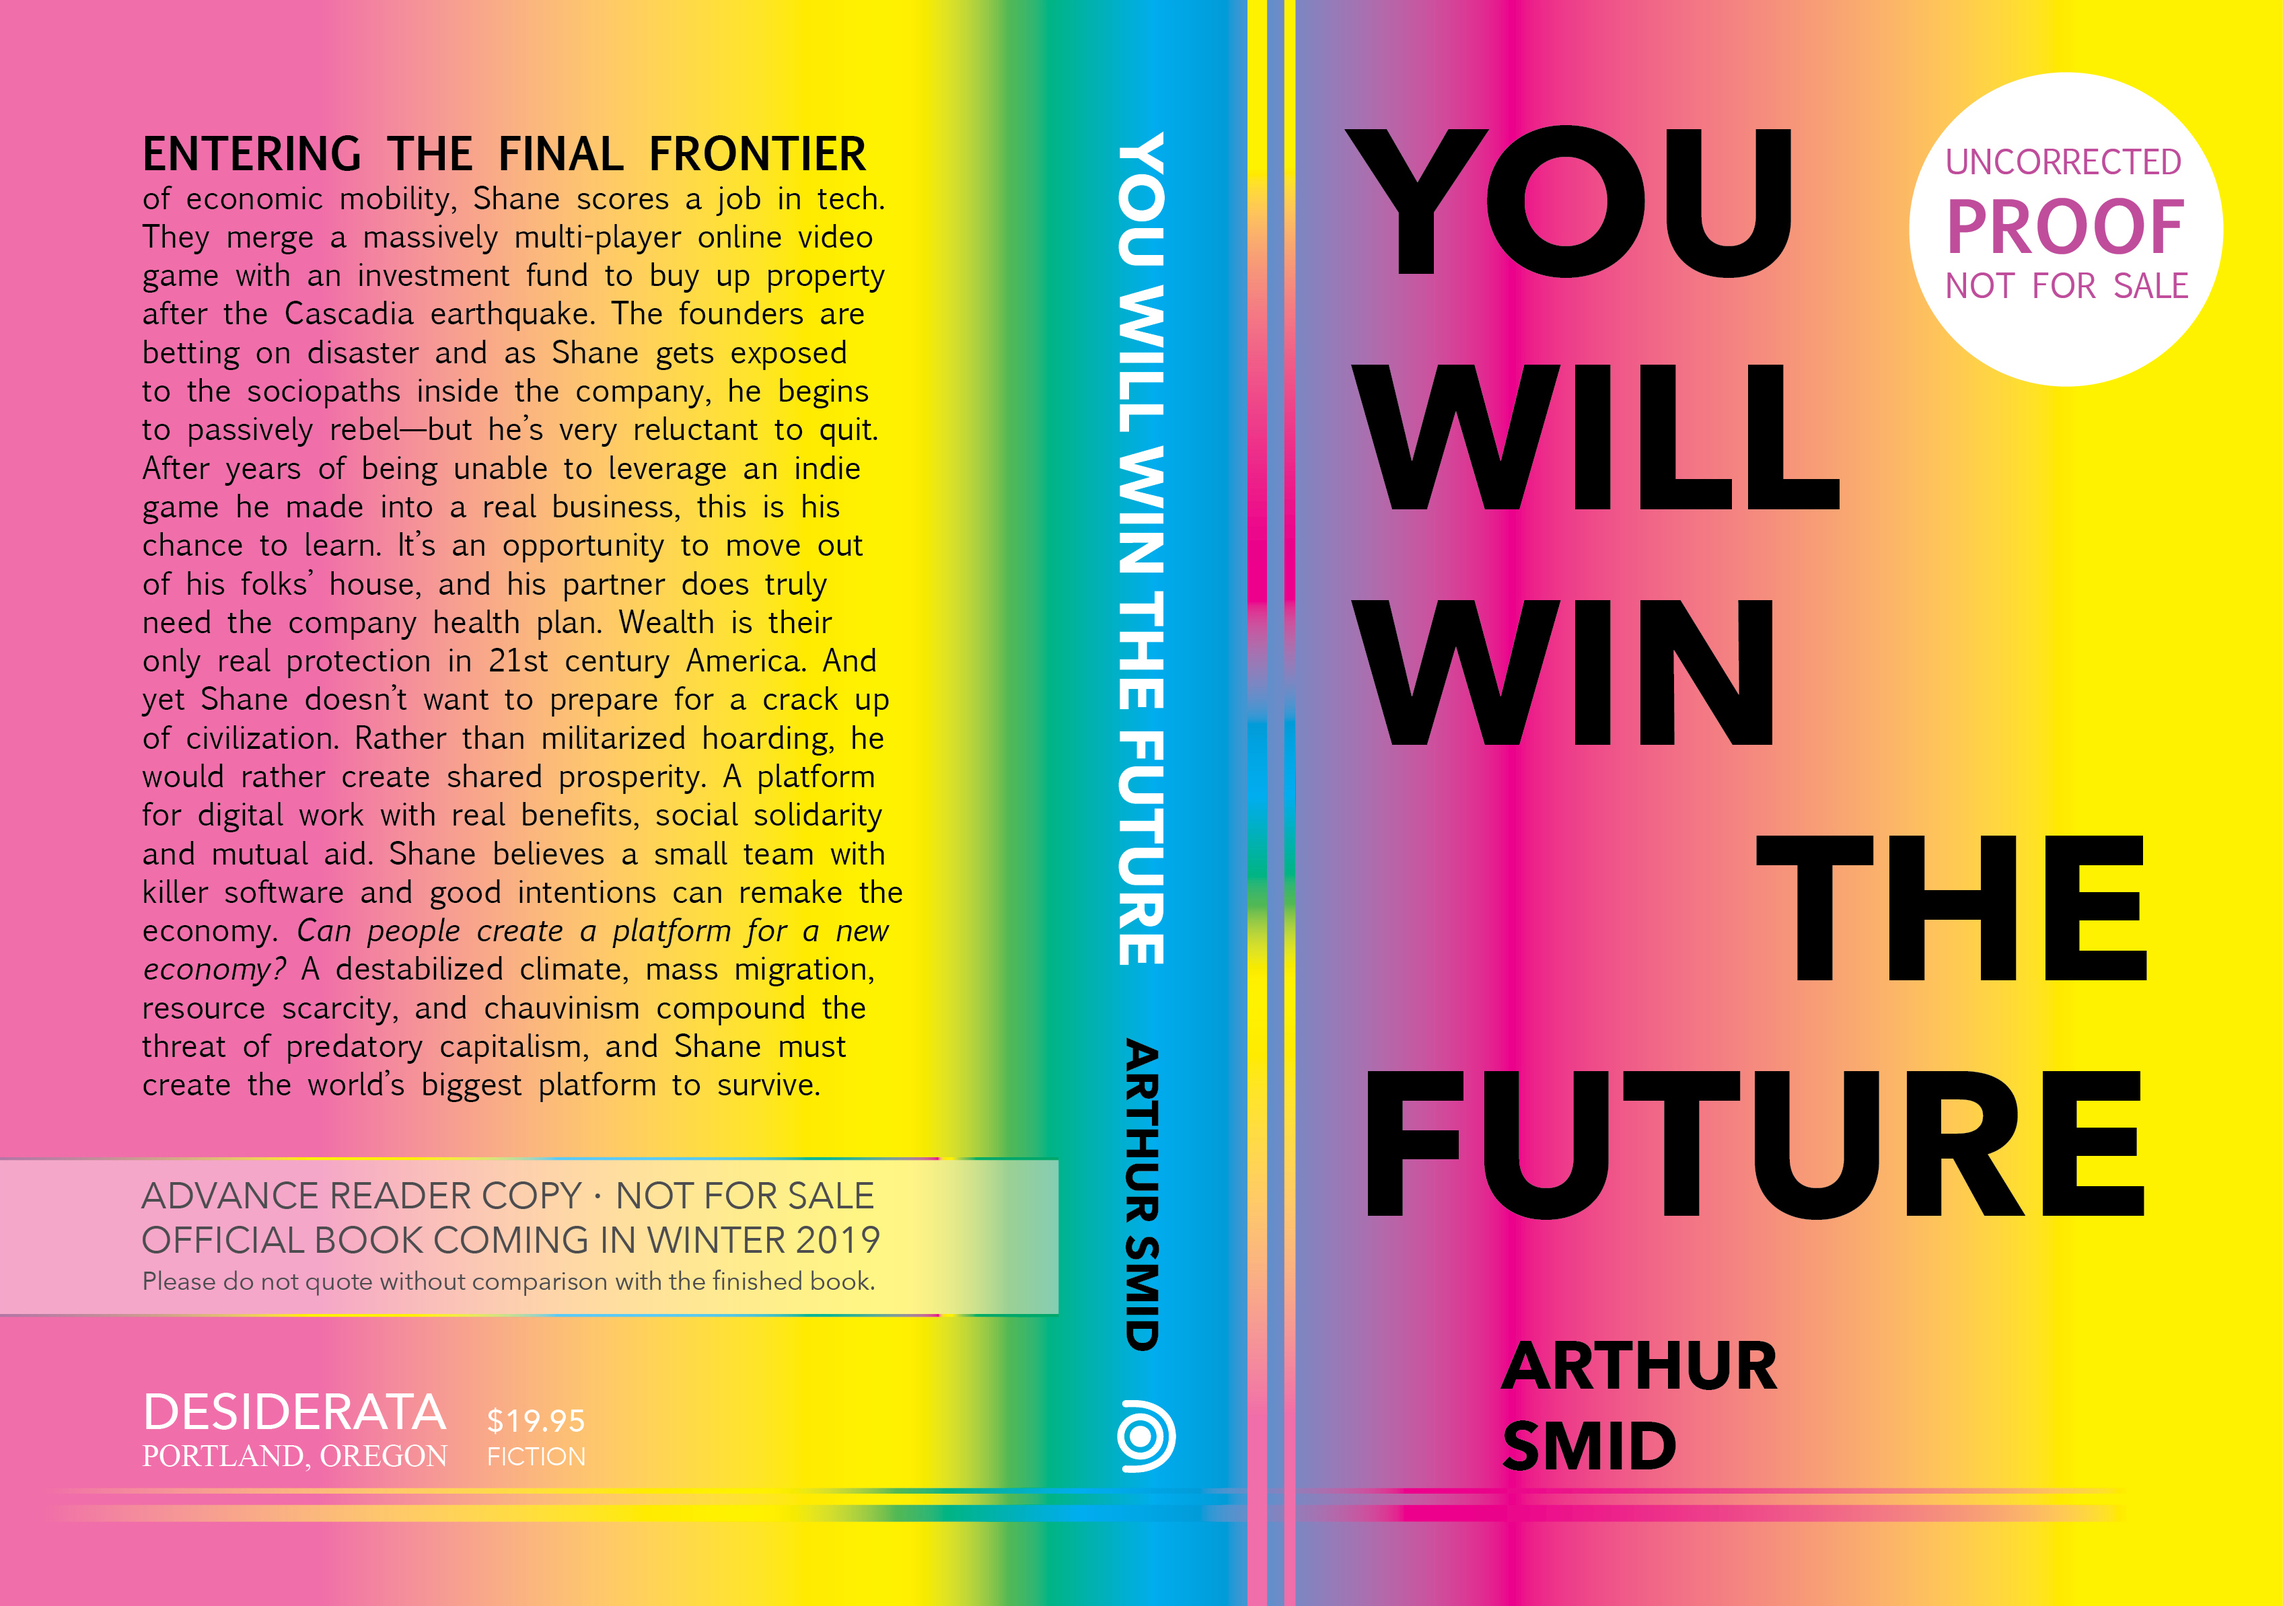
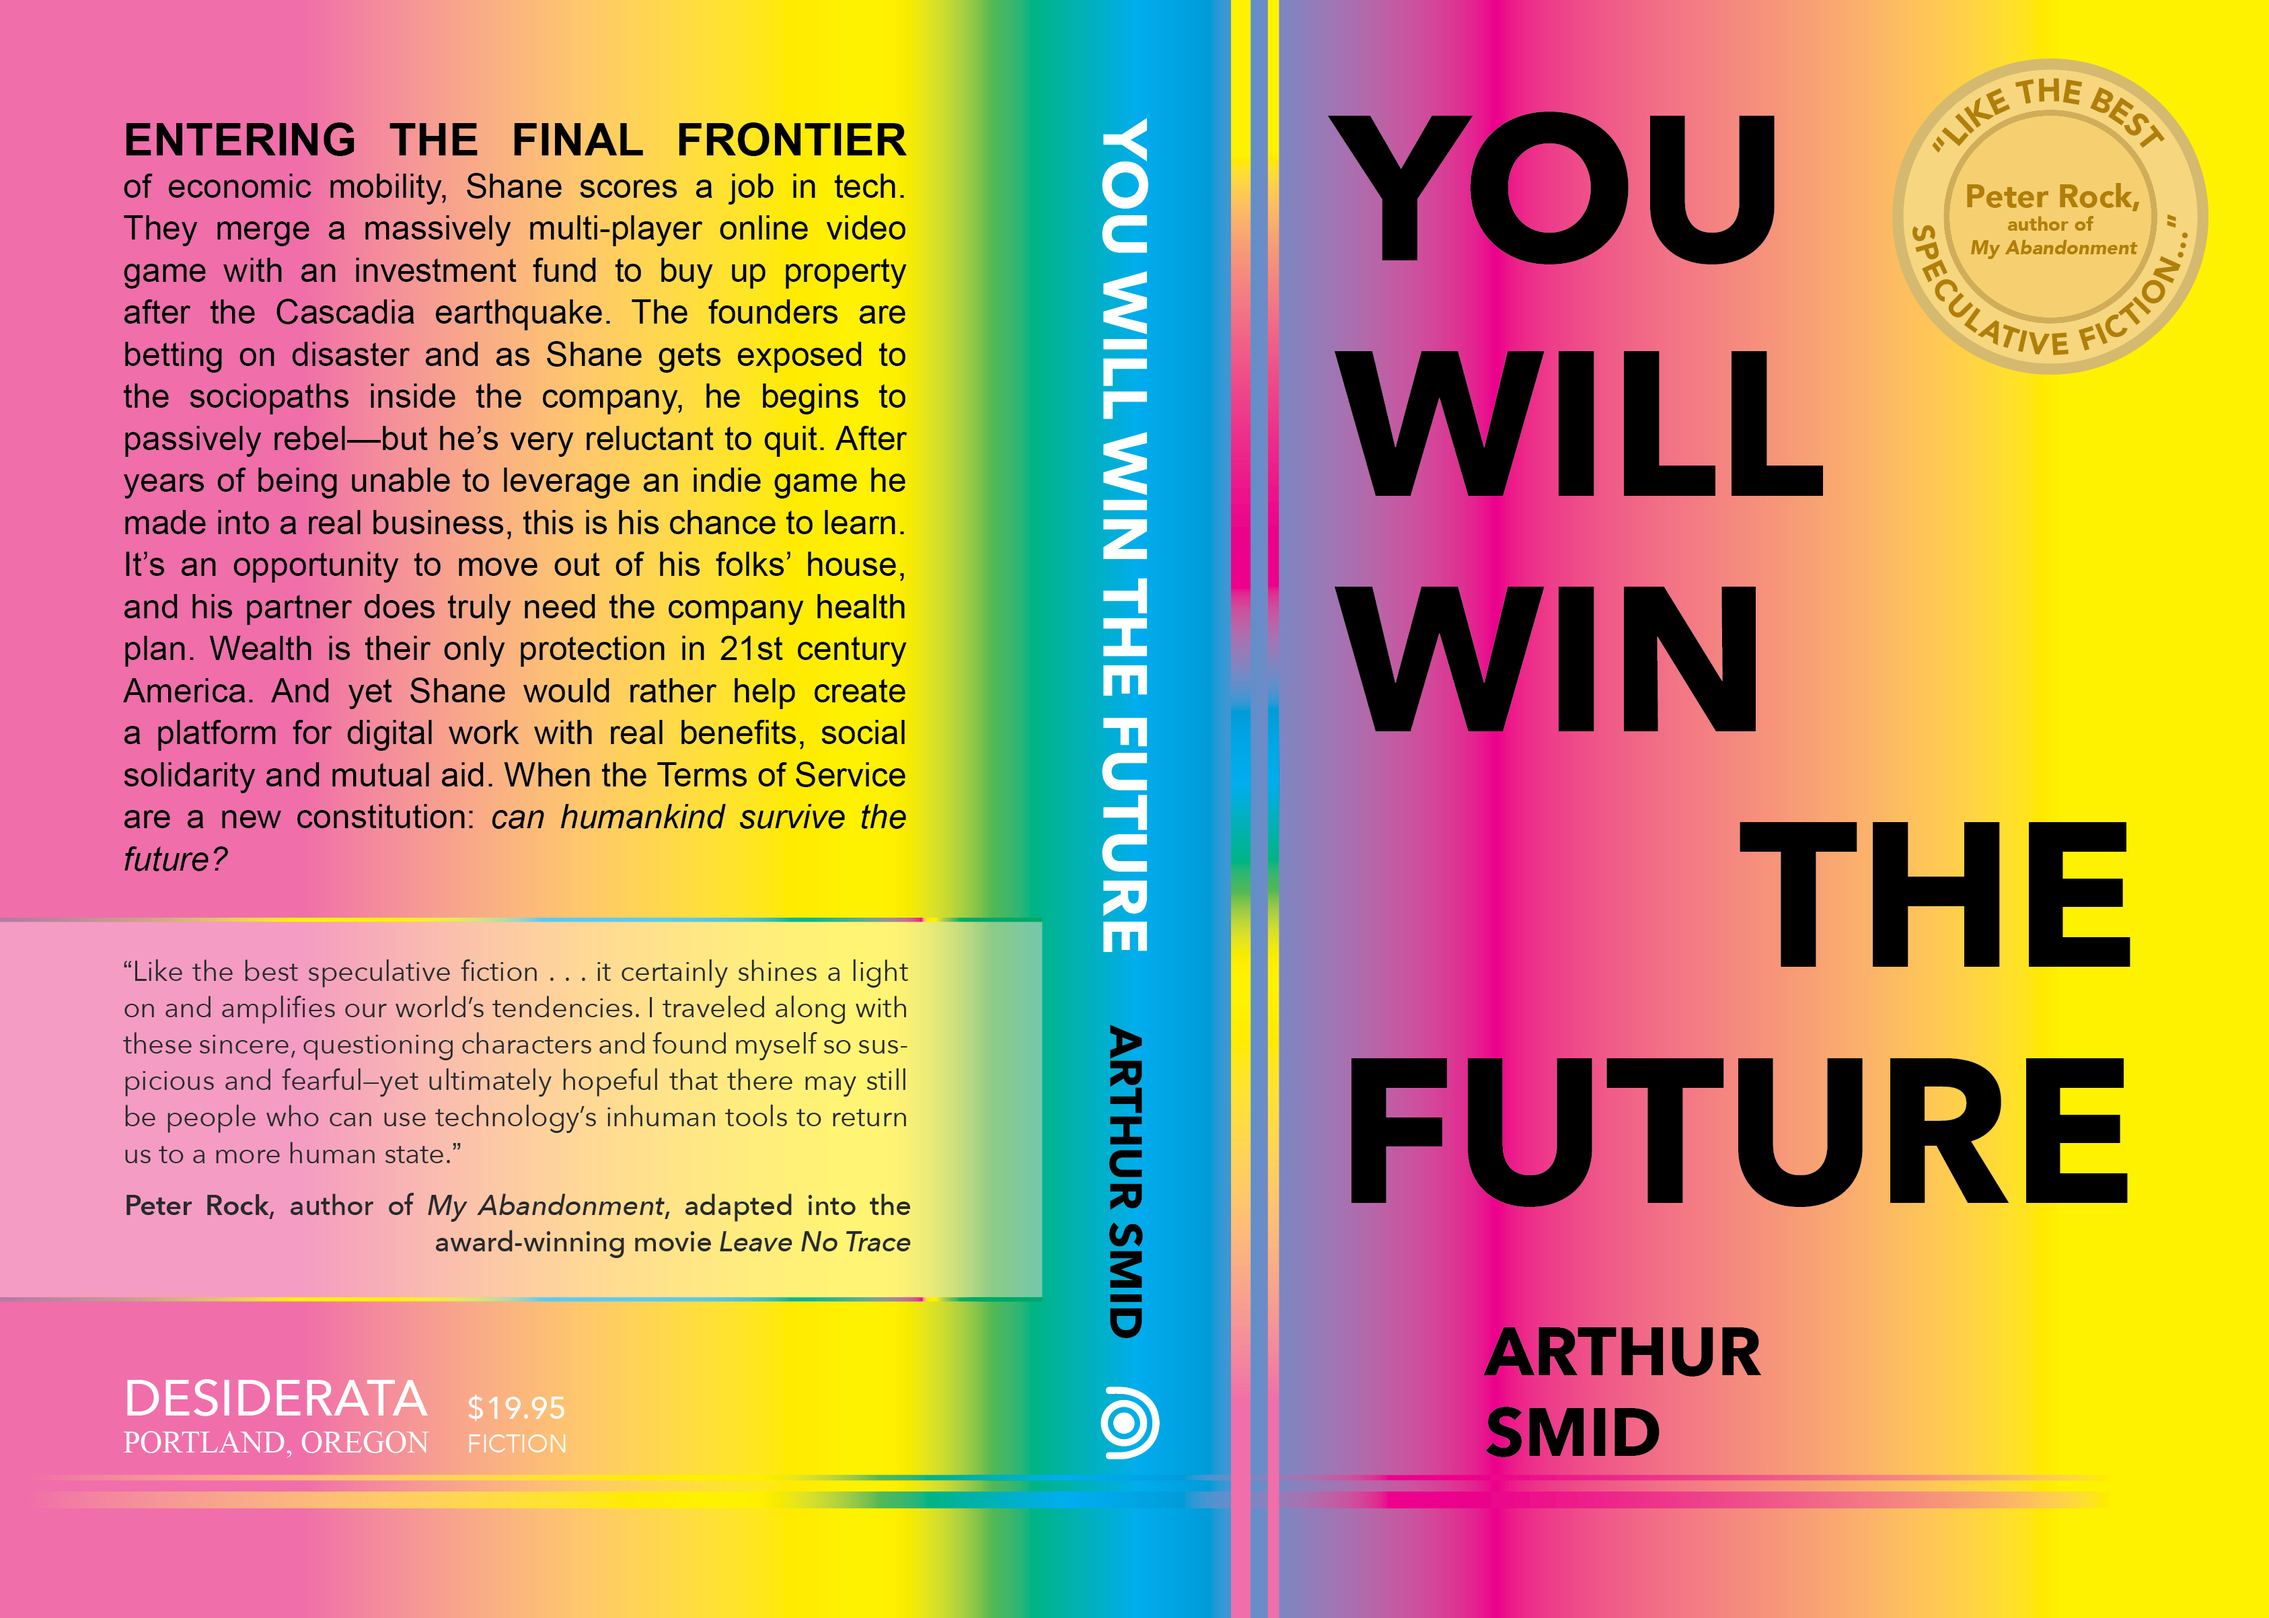
add jpgs for  final cover prep and code  cover image change from desktop to mobile

Changed region(s): [[0.0, 0.0, 0.9961, 1.0], [0.7471, 0.496, 0.965, 0.62]]

diff --git a/press-kit.html b/press-kit.html
@@ -21,6 +21,17 @@
     padding: 1em 0 2.5em 0;
   }
 }
+  .mobile-img {
+    display: none;
+  }
+  @media only screen and (min-width: 520px) {
+    .desktop-img {
+      display: none;
+    }
+    .mobile-img {
+      width: 100%;
+    }
+  }
 </style>
 </head>
 <body>
@@ -57,7 +68,8 @@
   <h2>Advance Praise for <cite class="italic">You Will Win The Future</cite></h2>
   </div>
   <p>"Like the best speculative fiction, Arthur Smid's <cite class="italic">You Will Win The Future</cite> had me vacillating between feeling that the world described was quite familiar and then trying to reassure myself that it was a preposterous exaggeration. If this isn't our world, quite, it certainly shines a light on and amplifies our world's tendencies. I traveled along with these sincere, questioning characters and found myself so suspicious and fearful—yet ultimately hopeful that there may still be people who can use technology's inhuman tools to return us to a more human state." —<span class="bold">Peter Rock</span>, author of <cite class="italic">My Abandonment</cite>, adapted into the award-winning movie <cite class="italic">Leave No Trace</cite></p>
-  <img src="../images/YWWTFcover.jpg" class="book-cover" alt="Rainbow colors on the cover of a novel called You Will Win The Future.">
+  <img src="../images/YWWTFcover.jpg" class="book-cover desktop-img" alt="Rainbow colors on the cover of a novel called You Will Win The Future.">
+  <img src="../images/YWWTFfrontcover.jpg" class="book-cover mobile-img" alt="Rainbow colors on the cover of a novel called You Will Win The Future.">
   <div class="center-heading">
   <h3>Description</h3>
   </div>
